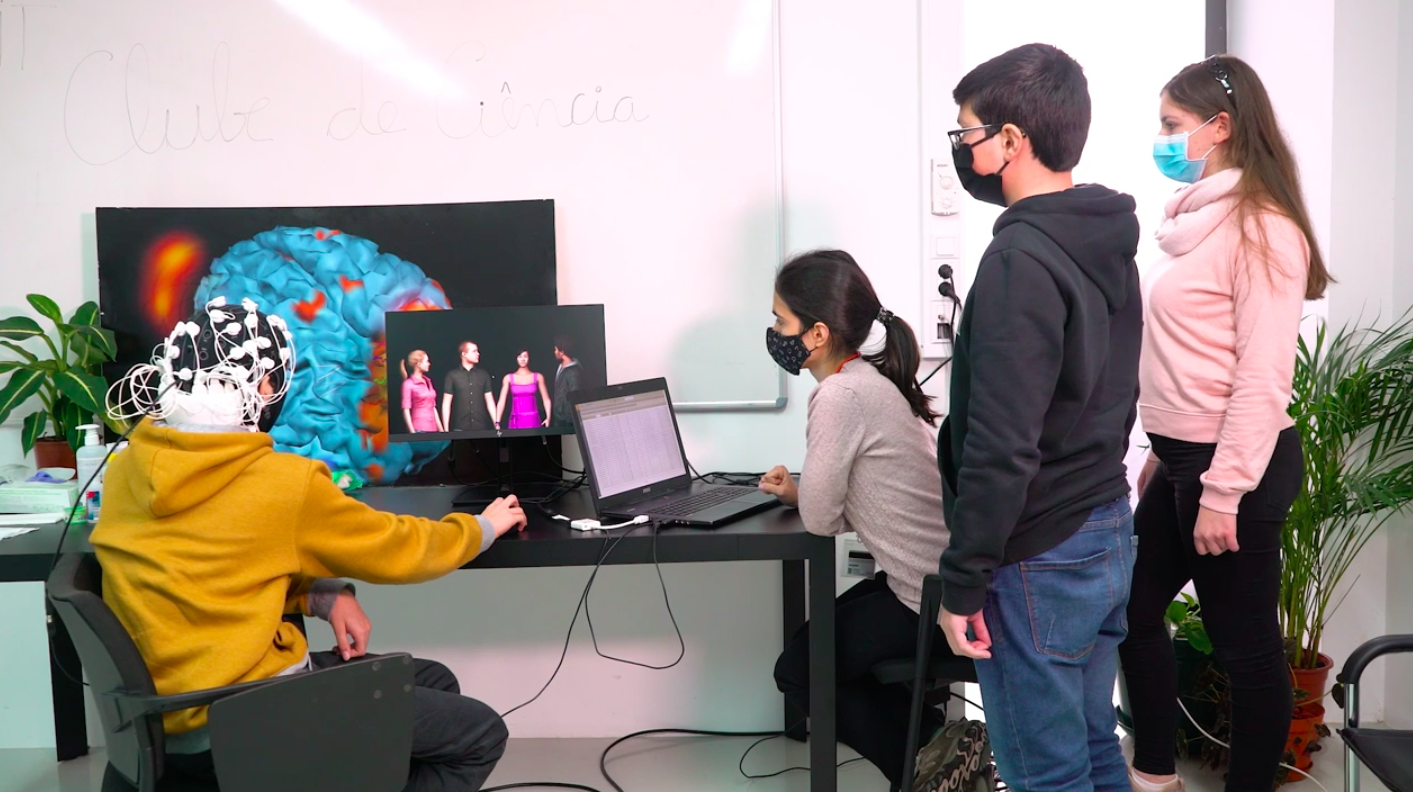
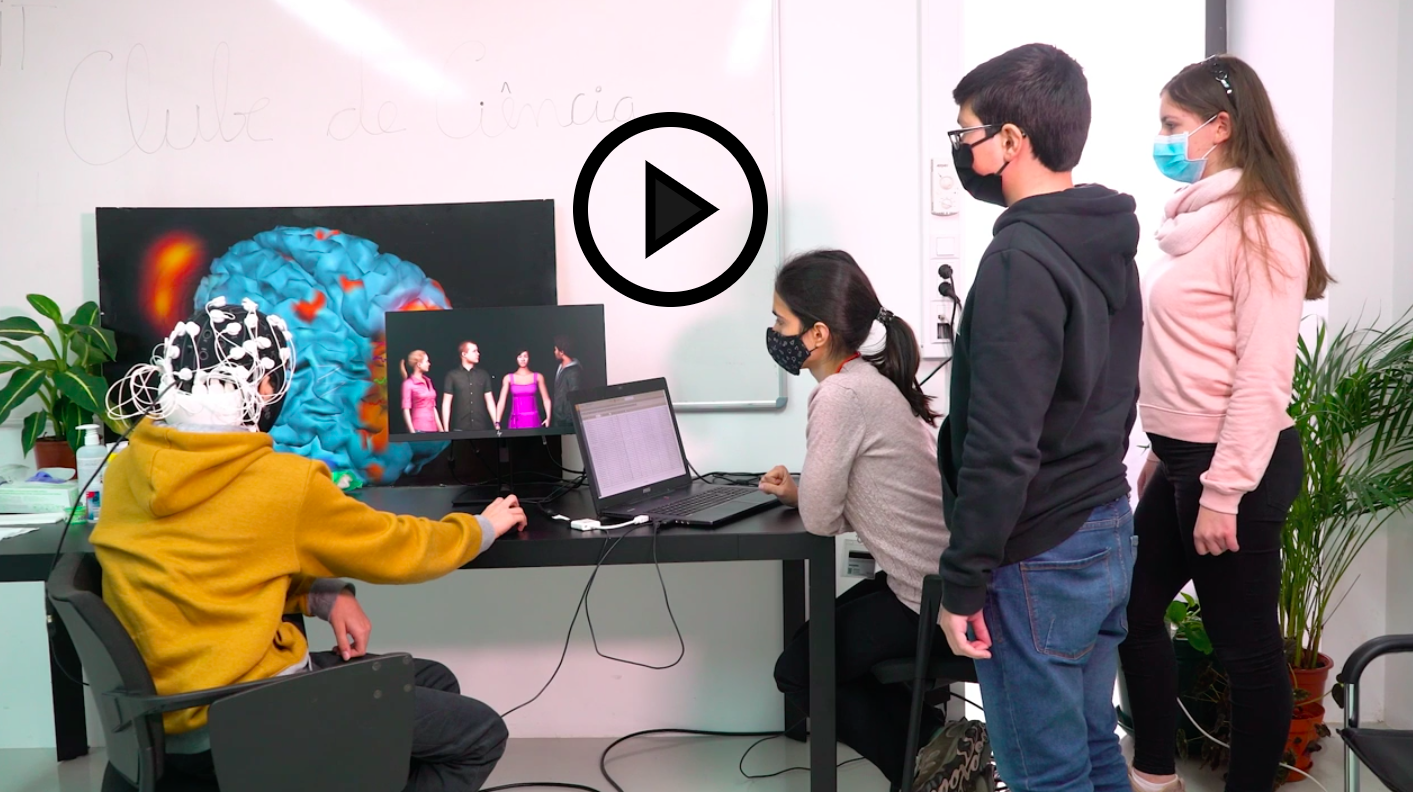
- Updated reportagem.png and README.md.

Changed region(s): [[0.4048, 0.1212, 0.5605, 0.3939]]

diff --git a/README.md b/README.md
@@ -127,6 +127,10 @@ O Centro de Imagem Biomédica e Investigação Translacional (CIBIT), unidade de
 | [Ilusões Ópticas - A Pós Imagem](activity2/poster/Grupo1-POSTER-sessions9-to-11-EMartimFreitas_POCH.pdf) |
 | [A Cor e o Cérebro](activity2/poster/Grupo2-POSTER-sessions9-to-11-EMartimFreitas_POCH.pdf) |
 
+## Reportagem
+[![reportagem](https://github.com/CIBIT-ICNAS/clube-ciencia-viva/blob/main/files/reportagem.png)](https://streamable.com/e4c8ib)
+
+
 ---
 ![parceiros](https://github.com/CIBIT-ICNAS/clube-ciencia-viva/blob/main/files/partners.png)
 
